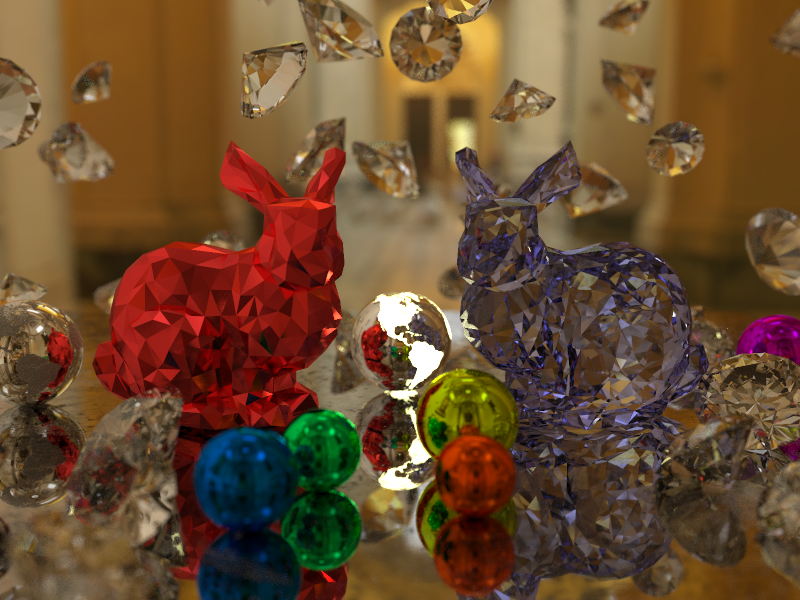
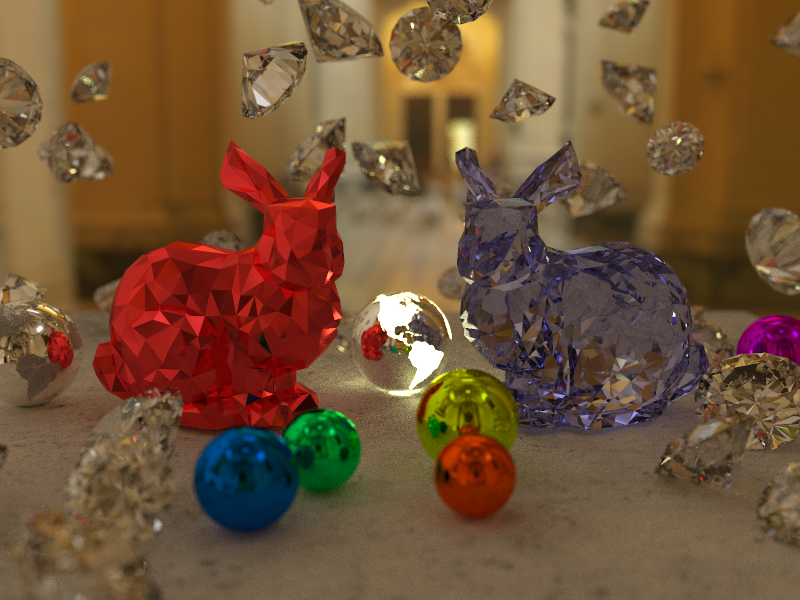
Add inspect_image() in main.rs

diff --git a/src/main.rs b/src/main.rs
@@ -3,6 +3,7 @@ extern crate image;
 extern crate time;
 extern crate rand;
 
+use image::GenericImage;
 use std::fs::File;
 use std::path::Path;
 use std::fs;
@@ -102,10 +103,10 @@ fn init_scene() -> (Camera, Scene) {
                 "models/dia/dia.obj",
                 Matrix44::translate(3.1, 0.0, 0.8) * Matrix44::scale_linear(1.0) * Matrix44::rotate_y(-0.5) * Matrix44::rotate_x(40.35.to_radians()),
                 Material {
-                    surface: SurfaceType::GGXReflection { refractive_index: 2.42 },
-                    albedo: Texture::from_color(Color::new(1.0, 1.0, 1.0)),
+                    surface: SurfaceType::Refraction { refractive_index: 2.42 },
+                    albedo: Texture::white(),
                     emission: Texture::black(),
-                    roughness: Texture::from_color(Color::from_one(0.01)),
+                    roughness: Texture::black(),
                 },
             ))),
 
@@ -202,14 +203,14 @@ fn init_scene() -> (Camera, Scene) {
                     max: Vector3::new(5.0, 0.0, 5.0),
                 },
                 material: Material {
-                    surface: SurfaceType::GGX,
+                    surface: SurfaceType::Diffuse,
                     //albedo:  Texture::white(),
                     //albedo: Texture::from_path("textures/2d/stone03.jpg"),
                     //albedo: Texture::from_path("textures/2d/checkered_v2_512.png"),
                     albedo: Texture::from_path("textures/2d/marble-speckled-Unreal-Engine/marble-speckled-albedo.png"),
                     emission: Texture::black(),
-                    //roughness: Texture::white(),
-                    roughness: Texture::new("textures/2d/marble-speckled-Unreal-Engine/marble-speckled-roughness.png", Vector3::from_one(10.0)),
+                    roughness: Texture::white(),
+                    //roughness: Texture::new("textures/2d/marble-speckled-Unreal-Engine/marble-speckled-roughness.png", Vector3::from_one(12.0)),
                 }
             }),
         ],
@@ -259,10 +260,10 @@ fn init_scene() -> (Camera, Scene) {
             "models/dia/dia.obj",
             Matrix44::translate(px, py, pz) * Matrix44::scale_linear(s) * Matrix44::rotate_y(ry) * Matrix44::rotate_x(40.35.to_radians()),
             Material {
-                surface: SurfaceType::GGXReflection { refractive_index: 2.42 },
-                albedo: Texture::from_color(Color::new(1.0, 1.0, 1.0)),
+                surface: SurfaceType::Refraction { refractive_index: 2.42 },
+                albedo: Texture::white(),
                 emission: Texture::black(),
-                roughness: Texture::from_color(Color::from_one(0.01)),
+                roughness: Texture::black(),
             },
         )))) {
             count += 1;
@@ -283,10 +284,10 @@ fn init_scene() -> (Camera, Scene) {
             "models/dia/dia.obj",
             Matrix44::translate(px, py, pz) * Matrix44::scale_linear(s) * Matrix44::rotate_y(ry) * Matrix44::rotate_x(rx),
             Material {
-                surface: SurfaceType::GGXReflection { refractive_index: 1.4 },
-                albedo: Texture::from_color(Color::new(1.0, 1.0, 1.0)),
+                surface: SurfaceType::Refraction { refractive_index: 2.42 },
+                albedo: Texture::white(),
                 emission: Texture::black(),
-                roughness: Texture::from_color(Color::from_one(0.01)),
+                roughness: Texture::black(),
             },
         )))) {
             count += 1;
@@ -304,6 +305,9 @@ fn render<R: Renderer>(renderer: &mut R, width: u32, height: u32, camera: &Camer
 }
 
 fn main() {
+    inspect_image();
+    return;
+
     let mut f = BufWriter::new(fs::File::create("result.txt").unwrap());
 
     let total_begin = time::now();
@@ -332,4 +336,20 @@ fn main() {
     let used_percent = total_sec / config::TIME_LIMIT_SEC as f64 * 100.0;
     let progress_per_used = 100.0 / used_percent;
     tee(&mut f, &format!("total {} sec. used {:.2} % (x {:.2})", total_sec, used_percent, progress_per_used));
+}
+
+fn inspect_image() {
+    let img = image::open(&Path::new("textures/2d/MarbleFloorTiles2/TexturesCom_MarbleFloorTiles2_512_roughness.tiff")).unwrap();
+    let mut min = 255.0;
+    let mut max = 0.0;
+    let mut avg = 0.0;
+    for (_, _, pixel) in img.pixels() {
+        let p = pixel.data[0] as f64;
+        min = min.min(p);
+        max = max.max(p);
+        avg += p;
+    }
+    avg /= (img.width() * img.height()) as f64;
+
+    println!("min: {} max: {} avg: {}", min, max, avg);
 }

diff --git a/src/renderer.rs b/src/renderer.rs
@@ -185,7 +185,7 @@ impl Renderer for PathTracingRenderer {
                             ray.origin = intersection.position + intersection.normal * config::OFFSET;
                             ray.direction = next_direction;
                         }
-                        SurfaceType::GGXReflection { refractive_index } => {
+                        SurfaceType::GGXRefraction { refractive_index } => {
                             let alpha2 = bsdf::roughness_to_alpha2(intersection.material.roughness);
                             let half = bsdf::importance_sample_ggx(random, &intersection.normal, alpha2);
                             bsdf::sample_refraction(random, &half, refractive_index, &mut intersection, &mut ray);

diff --git a/src/material.rs b/src/material.rs
@@ -7,7 +7,7 @@ pub enum SurfaceType {
     Specular,
     Refraction { refractive_index: f64 },
     GGX,
-    GGXReflection { refractive_index: f64 },
+    GGXRefraction { refractive_index: f64 },
 }
 
 #[derive(Debug)]
